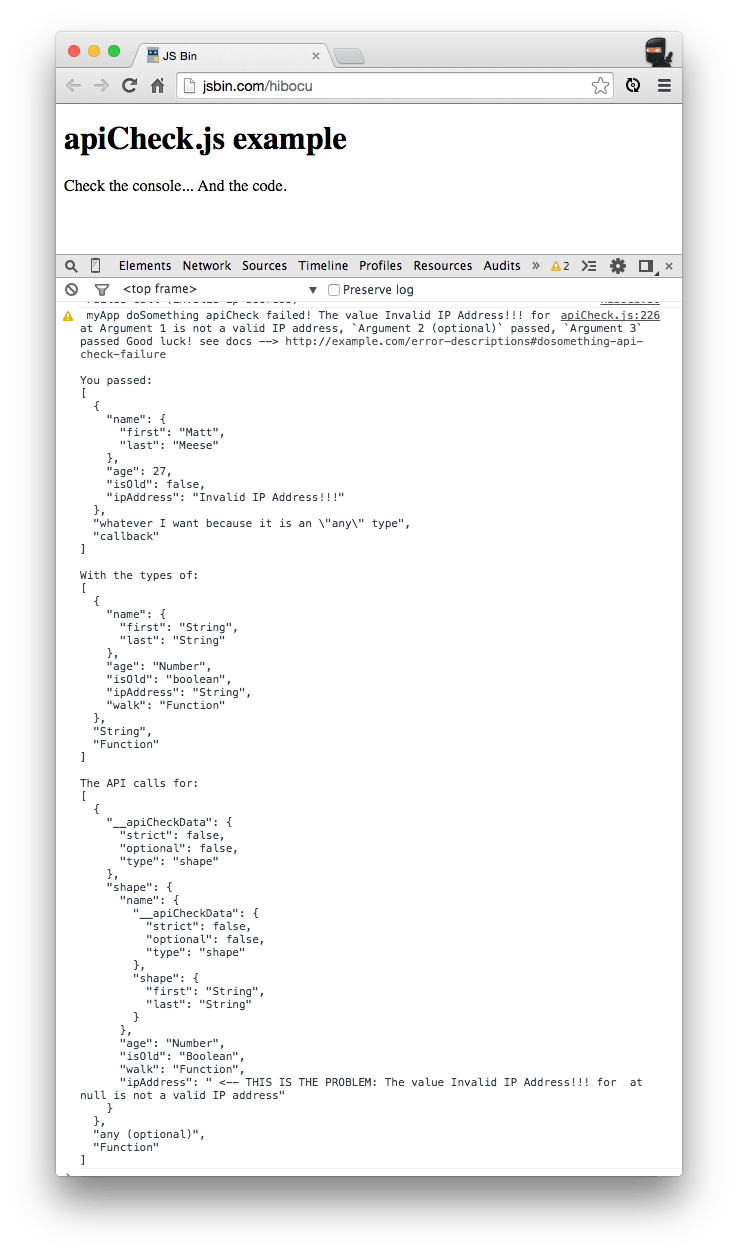
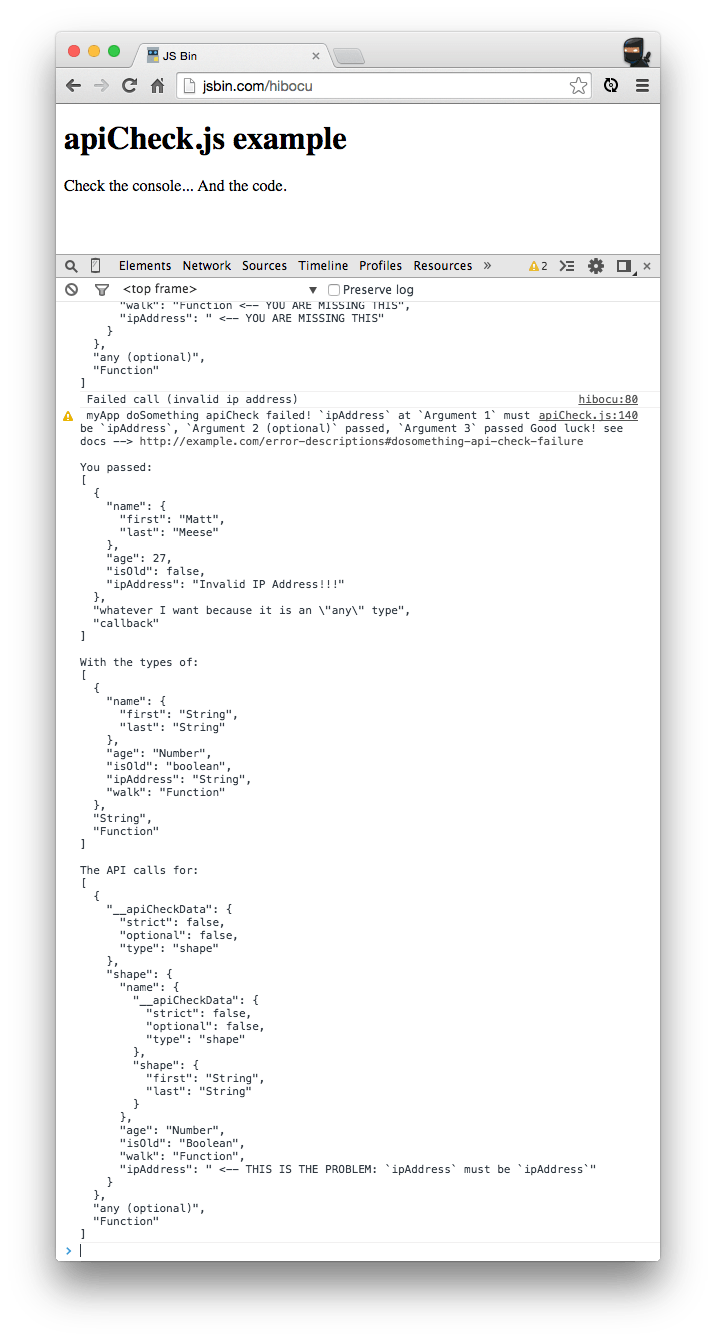
Updating README example

diff --git a/README.md b/README.md
@@ -25,6 +25,18 @@ apiCheck.js utilizes [UMD](https://github.com/umdjs/umd), so you can:
 Note, there are a bunch of tests. Those should be instructive as well.
 
 ```javascript
+var apiCheck = require('api-check)({
+  /* config options */
+  output: {
+    prefix: 'app/lib Name',
+    suffix: 'Good luck!',
+    docsBaseUrl: 'http://www.example.com/error-docs#'
+  },
+  verbose: false
+}, {
+  /* custom checkers if you wanna */
+});
+
 // given we have a function like this:
 function foo(bar, foobar) {
   // we can define our api as the first argument to apiCheck.warn
@@ -38,27 +50,42 @@ foo(3, ['a','b','c']);
 foo('whatever', false);
 
 
-// here's something a little more complex
+// here's something a little more complex (this is what's in the screenshot and [the demo](http://jsbin.com/hibocu/edit?js,console,output))
+var myCheck = apiCheck({
+  output: {
+    prefix: 'myApp',
+    suffix: 'see docs -->',
+    docsBaseUrl: 'http://example.com/error-descriptions#'
+  }
+});
 function doSomething(person, options, callback) {
-  apiCheck.warn([ // you can also do apiCheck.throw to throw an exception
-    apiCheck.shape({
-      name: apiCheck.shape({
-        first: apiCheck.string,
-        last: apiCheck.string
+  myCheck.warn([ // you can also do myCheck.throw to throw an exception
+    myCheck.shape({
+      name: myCheck.shape({
+        first: myCheck.string,
+        last: myCheck.string
       }),
-      age: apiCheck.number,
-      isOld: apiCheck.bool,
-      walk: apiCheck.func,
-      childrenNames: apiCheck.arrayOf(apiCheck.string).optional
+      age: myCheck.number,
+      isOld: myCheck.bool,
+      walk: myCheck.func,
+      ipAddress: function(val, name, location) {
+        if (!/(\d{1,3}\.){3}\d{1,3}/.test(val)) {
+          return myCheck.utils.getError(name, location, 'ipAddress');
+        }
+      },
+      childrenNames: myCheck.arrayOf(myCheck.string).optional
     }),
-    apiCheck.any.optional,
-    apiCheck.func
-  ], arguments);
+    myCheck.any.optional,
+    myCheck.func
+  ], arguments, {
+    prefix: 'doSomething',
+    suffix: 'Good luck!',
+    urlSuffix: 'dosomething-api-check-failure'
+  });
 
   // do stuff
 }
 
-// the function above can be called in the following ways:
 var person = {
   name: {
     first: 'Matt',
@@ -66,14 +93,25 @@ var person = {
   },
   age: 27,
   isOld: false,
+  ipAddress: '127.0.0.1',
   walk: function() {}
 };
 function callback() {}
 var options = 'whatever I want because it is an "any" type';
+
+console.log('Successful call');
 doSomething(person, options, callback);
+
+console.log('Successful call (without options)');
 doSomething(person, callback); // <-- options is optional
+
+console.log('Failed call (without person)');
 doSomething(callback); // <-- this would fail because person is not optional
 
+person.ipAddress = 'Invalid IP Address!!!';
+
+console.log('Failed call (invalid ip address)');
+doSomething(person, options, callback); // <-- this would fail because the ipAddress checker would fail
 
 // if you only wish to check the first argument to a function, you don't need to supply an array.
 function bar(a) {
@@ -420,18 +458,22 @@ apiCheck.any(jfio,.jgo); // <-- Syntax error.... ಠ_ಠ
 You can specify your own type. You do so like so:
 
 ```javascript
+var myCheck = apiCheck({
+  output: {prefix: 'myCheck'}
+});
+
+function ipAddressChecker(val, name, location) {
+  if (!/(\d{1,3}\.){3}\d{1,3}/.test(val)) {
+    return apiCheck.utils.getError(name, location, ipAddressChecker.type);
+  }
+};
+ipAddressChecker.type = 'ipAddressString';
+
 function foo(string, ipAddress) {
-  apiCheck.warn([
-    apiCheck.string,
+  myCheck.warn([
+    myCheck.string,
     ipAddressChecker
   ], arguments);
-
-  function ipAddressChecker(val, name, location) {
-    if (!/(\d{1,3}\.){3}\d{1,3}/.test(val)) {
-      return apiCheck.utils.getError(name, location, ipAddressChecker.type);
-    }
-  };
-  ipAddressChecker.type = 'ipAddressString';
 }
 ```
 
@@ -444,7 +486,7 @@ foo('hello', 'not-an-ip-address');
 It would result in a warning like this:
 
 ```
-apiCheck failed! `Argument 1` passed, `value` at `Argument 2` must be `undefined`
+myCheck apiCheck failed! `Argument 1` passed, `value` at `Argument 2` must be `ipAddressString`
 
 You passed:
 [
@@ -461,7 +503,7 @@ With the types of:
 The API calls for:
 [
   "String",
-  "ipAddressChecker"
+  "ipAddressString"
 ]
 ```
 
